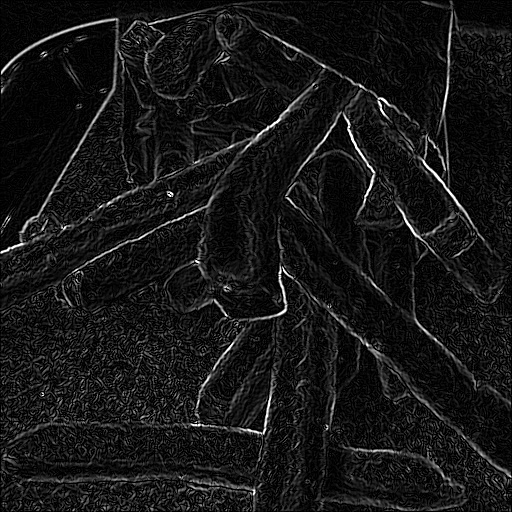
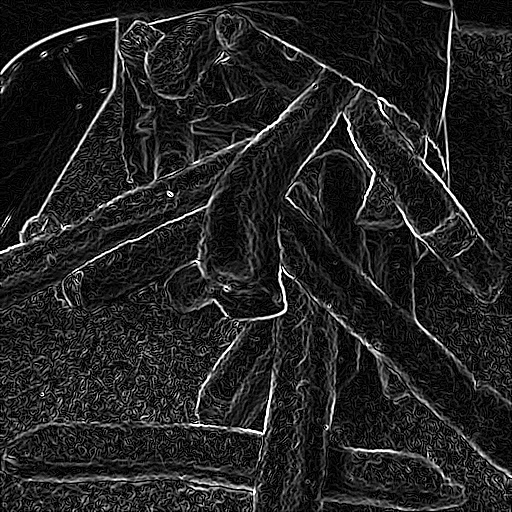
fix: filter with manual kernel

diff --git a/filters.py b/filters.py
@@ -66,22 +66,18 @@ def edge_detection(image):
     grad_y = cv2.filter2D(image, cv2.CV_32F, ky)
     
     # Calculate magnitude
-    # Standard: sqrt(x^2 + y^2)
-    # Approx for speed: |x| + |y|
+    # Strict: sqrt(x^2 + y^2)
+    # Note: filter2D with CV_32F returns float values (can be negative)
+    # Squaring makes them positive.
     
-    # Let's use the magnitude function for better accuracy or simple abs add
-    # Using absolute sum to stay consistent with previous look/feel if desired, 
-    # but strictly "Sobel" often implies magnitude. 
-    # Previous implementation was: addWeighted(abs(x), 0.5, abs(y), 0.5)
+    magnitude = np.sqrt(cv2.pow(grad_x, 2) + cv2.pow(grad_y, 2))
     
-    abs_grad_x = cv2.convertScaleAbs(grad_x)
-    abs_grad_y = cv2.convertScaleAbs(grad_y)
-    
-    return cv2.addWeighted(abs_grad_x, 0.5, abs_grad_y, 0.5, 0)
+    # Convert to 8-bit
+    return cv2.convertScaleAbs(magnitude)
 
 def sharpen(image):
     """
-    Enhance edges and details.
+    Enhance edges and details using cv2.filter2D with a manual kernel.
     """
     # Kernel:
     # [ 0, -1,  0]
@@ -91,17 +87,19 @@ def sharpen(image):
         [0, -1, 0],
         [-1, 5, -1],
         [0, -1, 0]
-    ])
+    ], dtype=np.float32)
+    
     return cv2.filter2D(image, -1, kernel)
 
 def adjust_brightness(image, factor=1.2):
     """
-    Increase or decrease image brightness.
-    Wrapper for convertScaleAbs which performs strictly linear transformation.
-    dst = alpha * src + beta
-    We use alpha=factor for scaling pixel values (simulating brightness/contrast adjustment).
+    Increase or decrease image brightness using NumPy.
+    Formula: pixel * factor
     """
-    return cv2.convertScaleAbs(image, alpha=factor, beta=0)
+    # Simply multiply and clip
+    # Use float32 to prevent overflow during calc
+    bright = image.astype(np.float32) * factor
+    return np.clip(bright, 0, 255).astype(np.uint8)
 
 def process_pipeline(image_path, output_path):
     """
